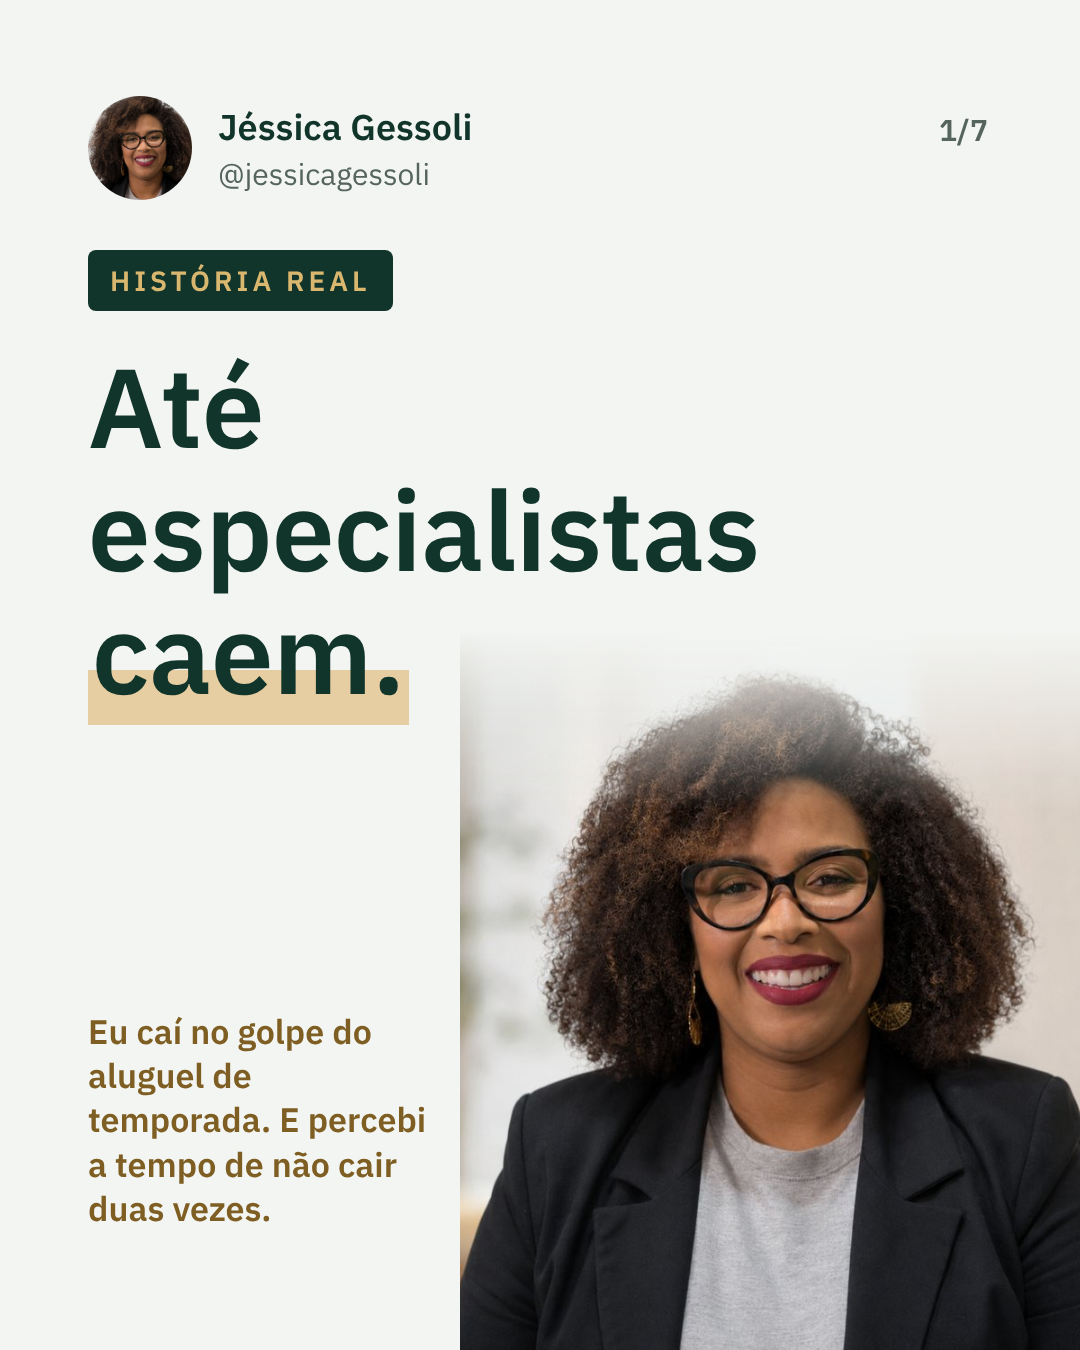
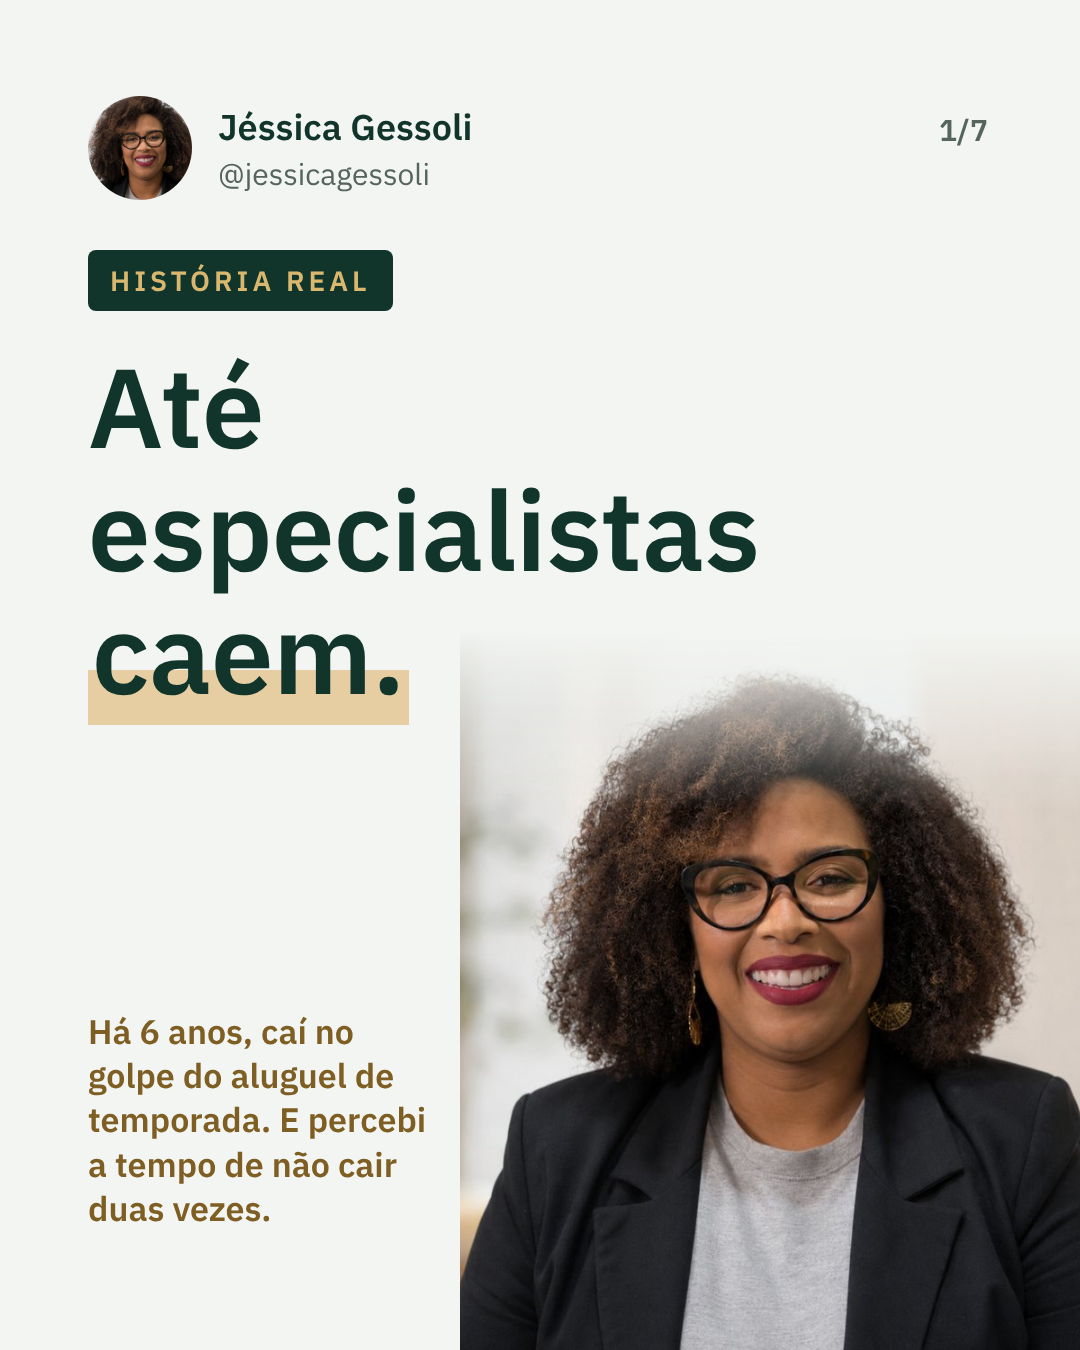
Post história real: inclui 'há 6 anos' e '12 anos de carreira em risco' nas telas e legendas
Claude-Session: https://claude.ai/code/session_014grh3uaSABRrhKanxqxRUA

Changed region(s): [[0.0917, 0.7467, 0.3667, 0.8089]]

diff --git a/campaigns/social/historia-2026-10/out/2026-10-20-historia-aluguel-ilhabela-1.html b/campaigns/social/historia-2026-10/out/2026-10-20-historia-aluguel-ilhabela-1.html
@@ -54,4 +54,4 @@ body.s-por{background:#F3F5F2}
 .chk{position:absolute;left:88px;top:860px;display:flex;gap:26px}.chk div{width:92px;height:92px;border:6px solid #D9B76E;border-radius:16px;position:relative}
 .chk div.ok{background:#D9B76E}.chk div.ok:after{content:"";position:absolute;left:28px;top:8px;width:22px;height:46px;border:solid #12352B;border-width:0 10px 10px 0;transform:rotate(45deg)}
 body.s-lat{background:#D9B76E;color:#12352B}.s-lat .at,.s-lat .pg{color:#12352B;opacity:.75}.s-lat mark{background:none;color:#12352B;text-decoration:underline;text-decoration-thickness:8px;text-underline-offset:14px;padding:0}.s-lat .qm,.s-lat .qa{color:#12352B}
-</style></head><body class="cover s-por"><div class="foto"></div><div class="hdr"><div class="av"></div><div><div class="nm">Jéssica Gessoli</div><div class="at">@jessicagessoli</div></div></div><div class="pg">1/7</div><div class="tag">HISTÓRIA REAL</div><h1 style="width:620px;font-size:112px">Até especialistas <mark>caem.</mark></h1><div class="cta" style="width:340px;bottom:120px;font-size:34px;line-height:1.3">Eu caí no golpe do aluguel de temporada. E percebi a tempo de não cair duas vezes.</div></body></html>
+</style></head><body class="cover s-por"><div class="foto"></div><div class="hdr"><div class="av"></div><div><div class="nm">Jéssica Gessoli</div><div class="at">@jessicagessoli</div></div></div><div class="pg">1/7</div><div class="tag">HISTÓRIA REAL</div><h1 style="width:620px;font-size:112px">Até especialistas <mark>caem.</mark></h1><div class="cta" style="width:340px;bottom:120px;font-size:34px;line-height:1.3">Há 6 anos, caí no golpe do aluguel de temporada. E percebi a tempo de não cair duas vezes.</div></body></html>

diff --git a/campaigns/social/historia-2026-10/out/2026-10-20-historia-aluguel-ilhabela-2.html b/campaigns/social/historia-2026-10/out/2026-10-20-historia-aluguel-ilhabela-2.html
@@ -54,4 +54,4 @@ body.s-por{background:#F3F5F2}
 .chk{position:absolute;left:88px;top:860px;display:flex;gap:26px}.chk div{width:92px;height:92px;border:6px solid #D9B76E;border-radius:16px;position:relative}
 .chk div.ok{background:#D9B76E}.chk div.ok:after{content:"";position:absolute;left:28px;top:8px;width:22px;height:46px;border:solid #12352B;border-width:0 10px 10px 0;transform:rotate(45deg)}
 body.s-lat{background:#D9B76E;color:#12352B}.s-lat .at,.s-lat .pg{color:#12352B;opacity:.75}.s-lat mark{background:none;color:#12352B;text-decoration:underline;text-decoration-thickness:8px;text-underline-offset:14px;padding:0}.s-lat .qm,.s-lat .qa{color:#12352B}
-</style></head><body class=""><div class="hdr"><div class="av"></div><div><div class="nm">Jéssica Gessoli</div><div class="at">@jessicagessoli</div></div></div><div class="pg">2/7</div><div class="box"><div class="eb">COMO COMEÇOU</div><div class="tt">Uma casa em Ilhabela para o Ano Novo</div><div class="bd">Achei o anúncio na OLX. Fotos bonitas, preço de R$ 5 mil. Logo a conversa saiu do site e foi para o WhatsApp.</div></div></body></html>
+</style></head><body class=""><div class="hdr"><div class="av"></div><div><div class="nm">Jéssica Gessoli</div><div class="at">@jessicagessoli</div></div></div><div class="pg">2/7</div><div class="box"><div class="eb">HÁ 6 ANOS</div><div class="tt">Uma casa em Ilhabela para o Ano Novo</div><div class="bd">Eu já tinha 12 anos de carreira em risco. Achei o anúncio na OLX. Fotos bonitas, preço de R$ 5 mil. Logo a conversa saiu do site e foi para o WhatsApp.</div></div></body></html>

diff --git a/campaigns/social/historia-2026-10/out/2026-10-20-historia-aluguel-ilhabela-7.html b/campaigns/social/historia-2026-10/out/2026-10-20-historia-aluguel-ilhabela-7.html
@@ -54,4 +54,4 @@ body.s-por{background:#F3F5F2}
 .chk{position:absolute;left:88px;top:860px;display:flex;gap:26px}.chk div{width:92px;height:92px;border:6px solid #D9B76E;border-radius:16px;position:relative}
 .chk div.ok{background:#D9B76E}.chk div.ok:after{content:"";position:absolute;left:28px;top:8px;width:22px;height:46px;border:solid #12352B;border-width:0 10px 10px 0;transform:rotate(45deg)}
 body.s-lat{background:#D9B76E;color:#12352B}.s-lat .at,.s-lat .pg{color:#12352B;opacity:.75}.s-lat mark{background:none;color:#12352B;text-decoration:underline;text-decoration-thickness:8px;text-underline-offset:14px;padding:0}.s-lat .qm,.s-lat .qa{color:#12352B}
-</style></head><body class="dark"><div class="hdr"><div class="av"></div><div><div class="nm">Jéssica Gessoli</div><div class="at">@jessicagessoli</div></div></div><div class="pg">7/7</div><div class="box"><div class="eb">O QUE EU APRENDI</div><div class="tt">Golpe não testa o que você sabe. <mark>Testa a sua pressa.</mark></div><div class="bd">Salva e manda para quem está procurando casa para o fim de ano.</div></div></body></html>
+</style></head><body class="dark"><div class="hdr"><div class="av"></div><div><div class="nm">Jéssica Gessoli</div><div class="at">@jessicagessoli</div></div></div><div class="pg">7/7</div><div class="box"><div class="eb">O QUE EU APRENDI</div><div class="tt">Golpe não testa o que você sabe. <mark>Testa a sua pressa.</mark></div><div class="bd">Seis anos depois, o golpe continua igual. Salva e manda para quem está procurando casa para o fim de ano.</div></div></body></html>

diff --git a/campaigns/social/historia-2026-10/textos.py b/campaigns/social/historia-2026-10/textos.py
@@ -1,31 +1,33 @@
-IG = """Até especialistas caem. Eu caí no golpe do aluguel de temporada.
+IG = """Até especialistas caem. Há 6 anos, eu caí no golpe do aluguel de temporada.
 
-Faz um tempo, procurei casa em Ilhabela para o Ano Novo. Achei o anúncio na OLX e a conversa foi para o WhatsApp. Atendimento educado, contrato na mão. Pediram metade dos R$ 5 mil. Veio o "tem outra família querendo a data" e eu paguei.
+Eu já tinha 12 anos de carreira em risco. Procurei casa em Ilhabela para o Ano Novo. Anúncio na OLX, conversa no WhatsApp. Gente educada, contrato na mão. Pediram metade dos R$ 5 mil. Veio o "tem outra família querendo a data" e eu paguei.
 
 Dias depois, pediram mais 30%. Reli o contrato: o resto era pago na chegada. Não paguei. Fomos até lá: a casa existia, mas os donos não alugam no Ano Novo. Uma família inteira tinha chegado com tudo pago. Na delegacia: "golpe comum".
 
-O que eu faço hoje antes de pagar um sinal:
-1. Converso e pago só dentro da plataforma, como a própria OLX orienta.
+Hoje, antes de pagar um sinal:
+1. Converso e pago só dentro da plataforma, como a OLX orienta.
 2. Confiro se o titular do Pix é o anunciante.
-3. Peço videochamada mostrando a casa.
+3. Peço videochamada na casa.
 4. Pressa para pagar? Eu paro.
 
 Já pagou? Faça boletim de ocorrência e conteste o Pix no app do banco.
 
-Golpe não testa o que você sabe. Testa a sua pressa. Salva e manda para quem está procurando casa para o fim de ano.
+Seis anos depois, o golpe é o mesmo.
+
+Golpe não testa o que você sabe. Testa a sua pressa. Salva e manda para quem vai alugar casa no fim de ano.
 
 Fontes: OLX, Polícia Civil do PR e InfoMoney (links no primeiro comentário).
 
-#golpe #aluguel #temporada #ilhabela #segurançadigital"""
+#golpe #aluguel #temporada #segurançadigital"""
 
 IG_COMENTARIO = """Fontes:
 OLX, Dicas de prevenção e segurança: https://ajuda.olx.com.br/s/article/proteger-seus-dados-pessoais
 Polícia Civil do Paraná, golpe do aluguel na temporada (08/01/2026): https://www.parana.pr.gov.br/Audio/PCPR-alerta-para-golpe-do-aluguel-de-imoveis-na-temporada-de-verao
 InfoMoney, contestação do Pix no app do banco (07/04/2025): https://www.infomoney.com.br/minhas-financas/usuarios-poderao-contestar-transferencias-via-pix-no-app-do-banco-em-casos-de-golpe/"""
 
-LI = """Até especialistas caem. Eu caí no golpe do aluguel de temporada.
+LI = """Até especialistas caem. Há 6 anos, eu caí no golpe do aluguel de temporada.
 
-Faz um tempo, procurei uma casa em Ilhabela para passar o Ano Novo. Achei o anúncio na OLX e a conversa foi para o WhatsApp. Atendimento educado, contrato na mão. Pediram metade dos R$ 5 mil. Quando veio o "tem outra família querendo a mesma data", eu paguei.
+Eu já tinha 12 anos de carreira em risco. Procurei uma casa em Ilhabela para passar o Ano Novo. Achei o anúncio na OLX e a conversa foi para o WhatsApp. Atendimento educado, contrato na mão. Pediram metade dos R$ 5 mil. Quando veio o "tem outra família querendo a mesma data", eu paguei.
 
 Dias depois, pediram mais 30%. Reli o contrato: o restante era pago na chegada. Não paguei. Fomos até a casa: ela existia, mas os donos não alugam no Ano Novo. Uma família inteira tinha chegado lá com tudo pago. Na delegacia, ouvi: "golpe comum".
 
@@ -37,6 +39,8 @@ Por que conto isso aqui: o golpe não explorou falta de conhecimento. Explorou t
 É o mesmo roteiro do fornecedor que pede para trocar a conta bancária às vésperas do pagamento.
 
 O que me fez parar no segundo pagamento foi uma regra escrita: o contrato dizia como e quando pagar. Na empresa vale o mesmo: pagamento fora do combinado só depois de confirmar por um canal que você já conhecia.
+
+Seis anos depois, o golpe é o mesmo: a Polícia Civil do Paraná voltou a alertar em janeiro de 2026.
 
 Golpe não testa o que você sabe. Testa a sua pressa.
 
@@ -51,11 +55,11 @@ LI_COMENTARIO = IG_COMENTARIO + """
 Quer saber onde o seu Negócio está mais exposto a golpe e vazamento de dados? Vamos conversar 30 minutos: https://calendly.com/jessica-gessoli-zethic/conversa-de-30-minutos-com-a-jessica-gessoli"""
 
 ALT = [
- "História real, de Jéssica Gessoli: Até especialistas caem. Eu caí no golpe do aluguel de temporada. E percebi a tempo de não cair duas vezes. Foto de Jéssica sorrindo.",
- "Como começou: uma casa em Ilhabela para o Ano Novo. Achei o anúncio na OLX. Fotos bonitas, preço de R$ 5 mil. Logo a conversa saiu do site e foi para o WhatsApp.",
+ "História real, de Jéssica Gessoli: Até especialistas caem. Há 6 anos, caí no golpe do aluguel de temporada. E percebi a tempo de não cair duas vezes. Foto de Jéssica sorrindo.",
+ "Há 6 anos: uma casa em Ilhabela para o Ano Novo. Eu já tinha 12 anos de carreira em risco. Achei o anúncio na OLX. Fotos bonitas, preço de R$ 5 mil. Logo a conversa saiu do site e foi para o WhatsApp.",
  "O primeiro Pix: educação, contrato e pressa. Atendimento gentil e contrato na mão. Pediram metade do valor. Aí veio a frase: tem outra família querendo a mesma data. Paguei.",
  "O segundo Pix: aqui eu parei. Dias depois, pediram mais 30%. Reli o contrato: o restante era pago na chegada. Não paguei.",
  "A confirmação: a casa existia. O aluguel, não. Fomos até lá. As fotos eram reais. O caseiro contou que os donos não alugam no Ano Novo e que uma família inteira tinha chegado com tudo pago. Na delegacia: golpe comum.",
  "O que eu faço hoje antes de pagar qualquer sinal: 1. Converso e pago só dentro da plataforma. 2. Confiro se o titular do Pix é o anunciante. 3. Peço videochamada mostrando a casa. 4. Pressa para pagar? Eu paro.",
- "O que eu aprendi: golpe não testa o que você sabe. Testa a sua pressa. Salva e manda para quem está procurando casa para o fim de ano.",
+ "O que eu aprendi: golpe não testa o que você sabe. Testa a sua pressa. Seis anos depois, o golpe continua igual. Salva e manda para quem está procurando casa para o fim de ano.",
 ]

diff --git a/campaigns/social/historia-2026-10/posts.py b/campaigns/social/historia-2026-10/posts.py
@@ -3,13 +3,13 @@
 POSTS = [
  dict(slug="2026-10-20-historia-aluguel-ilhabela", serie="historia", rede="instagram", data="2026-10-20T18:00:00", tipo="carrossel",
   slides=[
-   ("cover", "Até especialistas [[caem.]]", "Eu caí no golpe do aluguel de temporada. E percebi a tempo de não cair duas vezes."),
-   ("text", "COMO COMEÇOU", "Uma casa em Ilhabela para o Ano Novo", "Achei o anúncio na OLX. Fotos bonitas, preço de R$ 5 mil. Logo a conversa saiu do site e foi para o WhatsApp."),
+   ("cover", "Até especialistas [[caem.]]", "Há 6 anos, caí no golpe do aluguel de temporada. E percebi a tempo de não cair duas vezes."),
+   ("text", "HÁ 6 ANOS", "Uma casa em Ilhabela para o Ano Novo", "Eu já tinha 12 anos de carreira em risco. Achei o anúncio na OLX. Fotos bonitas, preço de R$ 5 mil. Logo a conversa saiu do site e foi para o WhatsApp."),
    ("text", "O PRIMEIRO PIX", "Educação, contrato e pressa", "Atendimento gentil e contrato na mão. Pediram metade do valor. Aí veio a frase: [[\"tem outra família querendo a mesma data\"]]. Paguei."),
    ("text", "O SEGUNDO PIX", "Aqui eu parei", "Dias depois, pediram mais 30%. Reli o contrato: o restante era pago na chegada. [[Não paguei.]]"),
    ("text", "A CONFIRMAÇÃO", "A casa existia. O aluguel, não.", "Fomos até lá. As fotos eram reais. O caseiro contou que os donos não alugam no Ano Novo e que uma família inteira tinha chegado com tudo pago. Na delegacia: \"golpe comum\"."),
    ("list", "O QUE EU FAÇO HOJE", "Antes de pagar qualquer sinal", ["Converso e pago só dentro da plataforma.", "Confiro se o titular do Pix é o anunciante.", "Peço videochamada mostrando a casa.", "Pressa para pagar? Eu paro."]),
-   ("end", "O QUE EU APRENDI", "Golpe não testa o que você sabe. [[Testa a sua pressa.]]", "Salva e manda para quem está procurando casa para o fim de ano."),
+   ("end", "O QUE EU APRENDI", "Golpe não testa o que você sabe. [[Testa a sua pressa.]]", "Seis anos depois, o golpe continua igual. Salva e manda para quem está procurando casa para o fim de ano."),
   ],
   texto=""),
 ]
